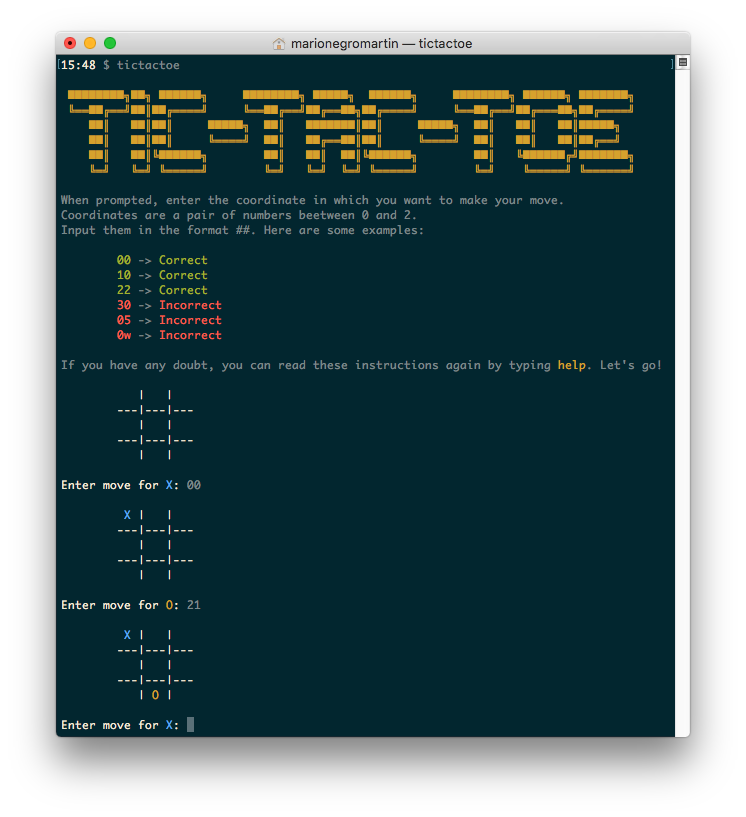
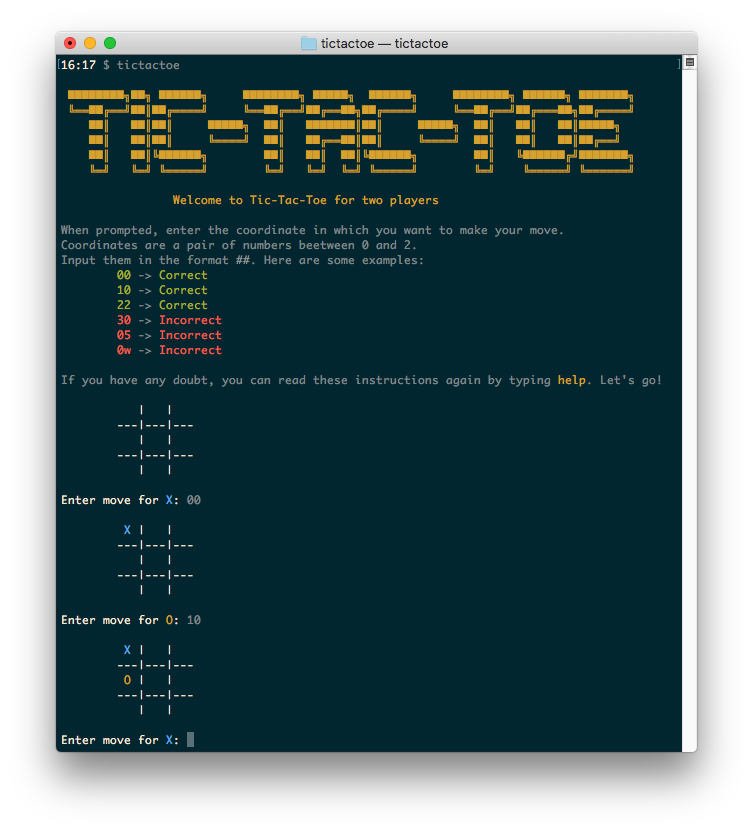
Updates README.

diff --git a/lib/tictactoe/messages.rb b/lib/tictactoe/messages.rb
@@ -10,20 +10,21 @@ module Messages
     ██║   ██║╚██████╗        ██║   ██║  ██║╚██████╗        ██║   ╚██████╔╝███████╗
     ╚═╝   ╚═╝ ╚═════╝        ╚═╝   ╚═╝  ╚═╝ ╚═════╝        ╚═╝    ╚═════╝ ╚══════╝
         ".yellow
+        puts "\t\tWelcome to Tic-Tac-Toe for two players\n".yellow
         put_manual
-        puts "\nIf you have any doubt, you can read these instructions again by typing #{"help".yellow}. Let's go!".italic
+        puts "\nIf you have any doubt, you can read these instructions again by typing #{"help".yellow}. Let's go!"
     end
 
     def Messages.put_manual
-        puts "When prompted, enter the coordinate in which you want to make your move.".italic
-        puts "Coordinates are a pair of numbers beetween #{MIN_INDEX} and #{MAX_INDEX}.".italic
-        puts "Input them in the format #{"##".bold}. Here are some examples:\n".italic
-        puts "\t#{"00".green} -> #{"Correct".green}".italic
-        puts "\t#{"10".green} -> #{"Correct".green}".italic
-        puts "\t#{"22".green} -> #{"Correct".green}".italic
-        puts "\t#{"30".red} -> #{"Incorrect".red}".italic
-        puts "\t#{"05".red} -> #{"Incorrect".red}".italic
-        puts "\t#{"0w".red} -> #{"Incorrect".red}".italic
+        puts "When prompted, enter the coordinate in which you want to make your move."
+        puts "Coordinates are a pair of numbers beetween #{MIN_INDEX} and #{MAX_INDEX}."
+        puts "Input them in the format #{"##".bold}. Here are some examples:\n"
+        puts "\t#{"00".green} -> #{"Correct".green}"
+        puts "\t#{"10".green} -> #{"Correct".green}"
+        puts "\t#{"22".green} -> #{"Correct".green}"
+        puts "\t#{"30".red} -> #{"Incorrect".red}"
+        puts "\t#{"05".red} -> #{"Incorrect".red}"
+        puts "\t#{"0w".red} -> #{"Incorrect".red}"
     end
 
     def Messages.put_get_input(mark)

diff --git a/README.md b/README.md
@@ -1,4 +1,4 @@
-# Tic-Tac-Toe
+# Tic-Tac-Toe [![Build Status](https://travis-ci.org/emenegro/tictactoe.svg?branch=master)](https://travis-ci.org/emenegro/tictactoe)
 
 ![screenshot](etc/screenshot.png)
 
